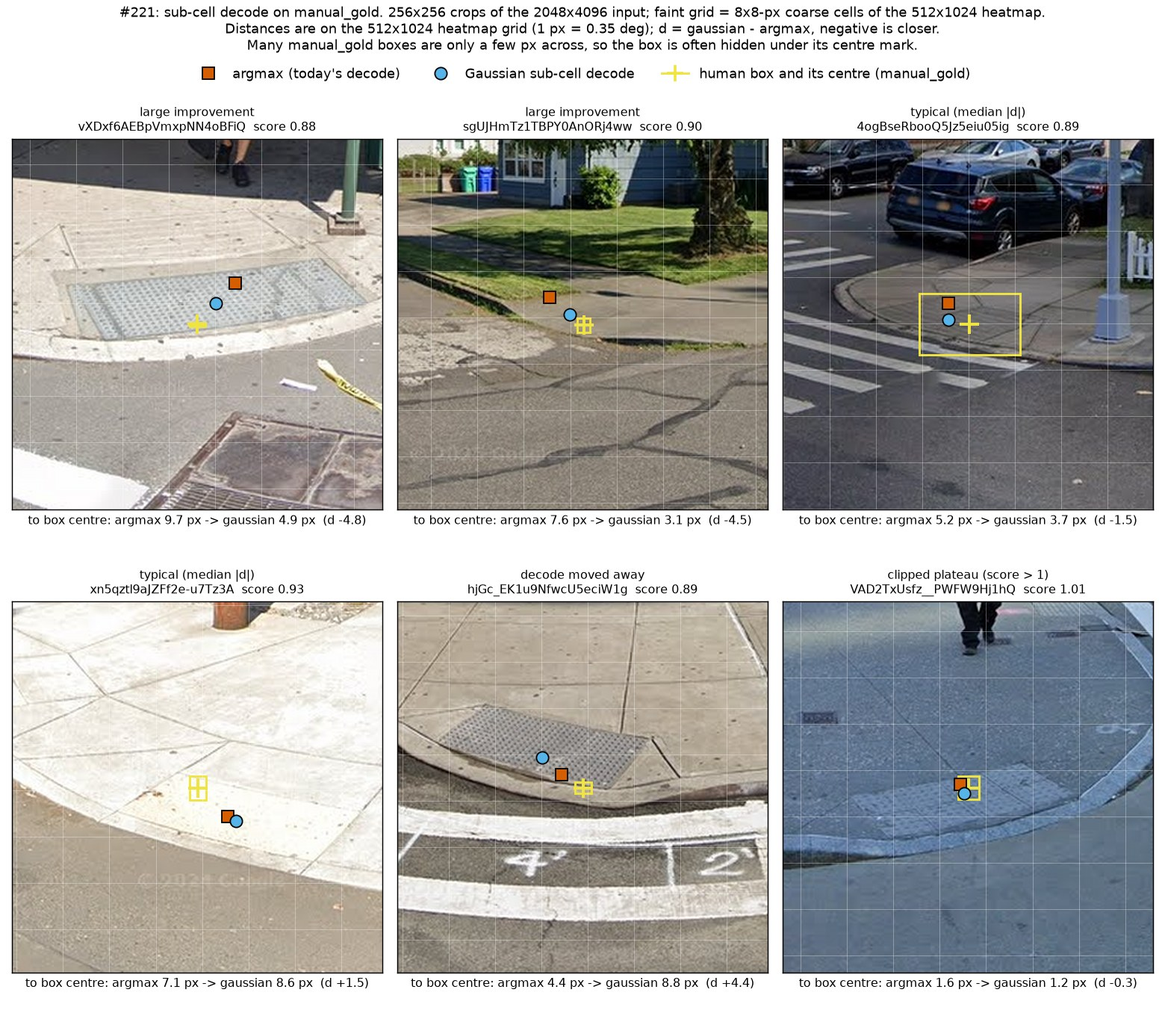
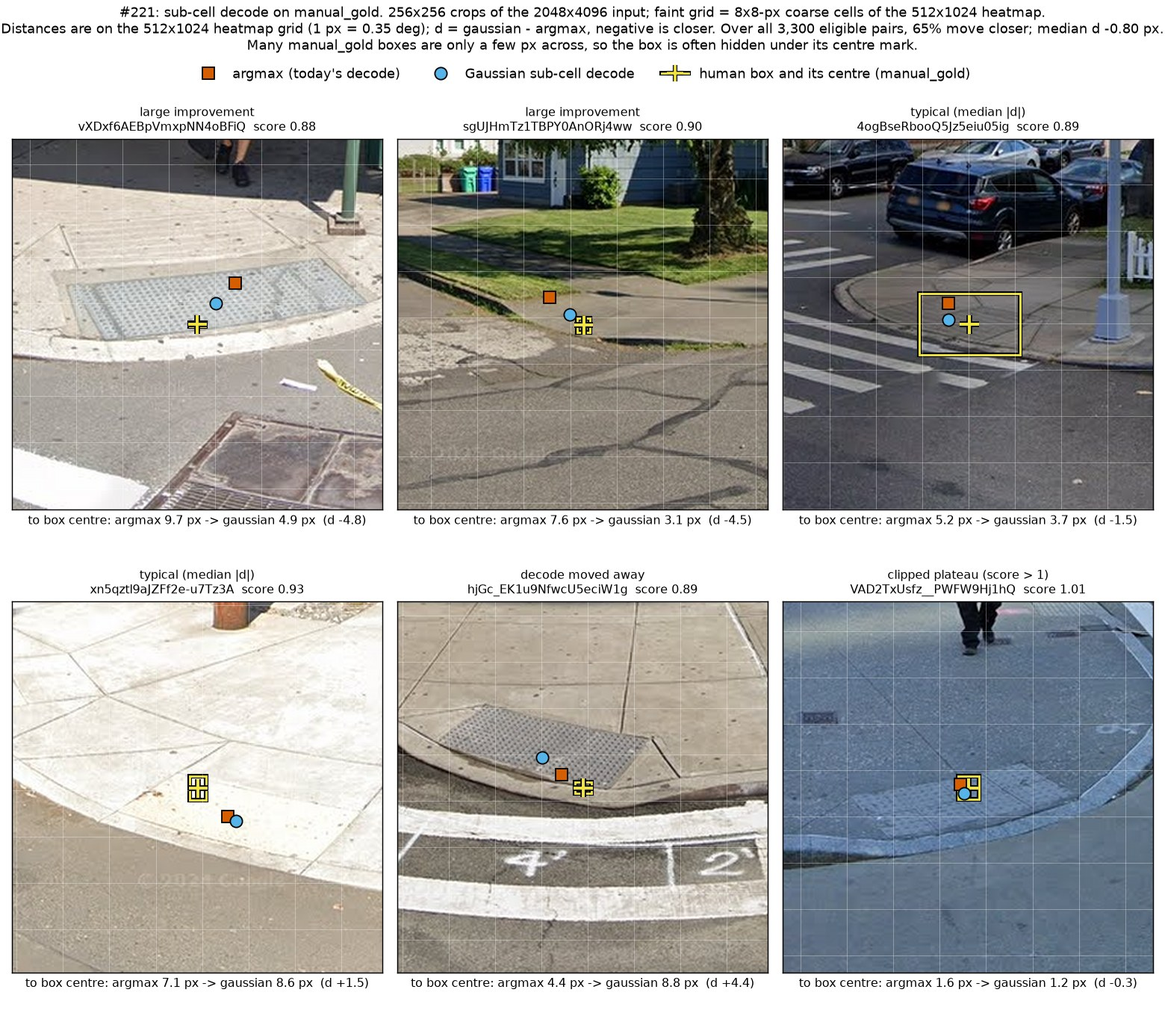
subcell decode (#226 review of b40abc8): figure replication path, doc wording, a11y
S1: the figure script no longer requires the A40 coarse map. With --heatmap-source
model and no --coarse-dir it recovers the coarse map from the model's heatmap; any
coarse map whose sha256 differs from the run's is accepted only if it matches every
stored 3x3 neighbourhood to 2e-4. The section 8 command now passes --detections and
needs neither the extract step nor its cache.
S2: "committed coarse map" corrected; the as-run figure command is documented.
S3: --out-dir is required; the docstring example writes to a scratch dir.
N1-N6: moved-away read softened, calibration and reach clauses, mechanism text,
black outline on GT marks, hatched histograms, descriptive alt text, wording.
Figures regenerated (byte-identical on re-run). Merges origin/main and adds the
docs/README.md row.

diff --git a/scripts/analysis/subcell_decode_221_figures.py b/scripts/analysis/subcell_decode_221_figures.py
@@ -24,20 +24,34 @@ first three categories use pairs whose peak is not clipped (score <= 1), was not
 - ``clipped``: among score > 1 pairs (not climbed, not seam) whose argmax is off the
   8i+3 / 8i+4 grid on either axis, the one whose d is closest to their median d.
 
-The mechanism panel uses the first ``typical`` example.
+The ``large`` and ``away`` picks sit near the decode's reach: their Gaussian offsets are
+0.43-0.50 cell, close to ``MAX_OFFSET = 0.5``, so they show the most the decode can move a
+peak, not a typical move. The mechanism panel uses the first ``typical`` example.
 
 Usage (CPU unless --heatmap-source model)::
 
     python scripts/analysis/subcell_decode_221_figures.py \
-        --panos-root D:/Git/RampNet --coarse-dir <dir with manual_gold/<pid>_coarse.npy> \
-        --heatmap-source model --out-dir docs/figures/subcell_decode_221
+        --panos-root <dir holding benchmark/manual_gold/panos> \
+        --detections analysis_out/subcell_decode_221/detections.json \
+        --heatmap-source model --out-dir /tmp/sc221/figures
 
 ``--panos-root`` holds ``benchmark/manual_gold/panos/<pid>.jpg`` (``fetch_manual_gold.py
---images-only``). The coarse map comes from ``extract --cache-dir`` and is checked against
-the sha256 committed in ``detections.json``. ``--heatmap-source model`` runs the released
-checkpoint on that one pano (GPU if available) so the heatmap panel is the model's own
-output; ``coarse`` draws the bilinear upsample of the coarse map instead and says so in
-the panel title. ``--select-only`` prints the selection and needs neither input.
+--images-only``). ``--out-dir`` is required, so a run cannot overwrite the committed
+figures by accident; pass ``docs/figures/subcell_decode_221`` to do it on purpose.
+
+The mechanism panel needs the pano's 64x128 coarse map. Two sources:
+
+- ``--coarse-dir``: an ``extract --cache-dir``. If the map's sha256 equals the one in
+  ``--detections`` it is the run's own map. If not (another GPU or software stack), every
+  stored 3x3 neighbourhood for that pano must agree with it to ``COARSE_TOL``.
+- no ``--coarse-dir`` with ``--heatmap-source model``: the coarse map is recovered from the
+  model's heatmap (``rampnet.subcell.coarse_from_heatmap``) and checked against the stored
+  neighbourhoods the same way. This needs only the Hub model and the HF imagery.
+
+``--heatmap-source model`` runs the released checkpoint on that one pano (GPU if
+available) so the heatmap panel is the model's own output; ``coarse`` draws the bilinear
+upsample of the coarse map instead and says so in the panel title. ``--select-only`` prints
+the selection and needs no imagery.
 """
 import argparse
 import hashlib
@@ -57,6 +71,10 @@ IN_H, IN_W = 2048, 4096           # model input; 4 input px per heatmap px
 SCALE = IN_W // sd.HM[1]
 CELL_IN = sc.FACTOR * SCALE       # 32 input px per coarse cell
 CROP = 256                        # input px (64 heatmap px, 8 coarse cells)
+# Largest |coarse map - stored 3x3 neighbourhood| accepted when the map is not the run's own
+# (sha256 differs). Cross-machine fp32 noise is about 1e-4 (doc section 3); the stored
+# values are rounded to 6 decimals (5e-7).
+COARSE_TOL = 2e-4
 
 # Okabe-Ito (colour-blind safe); every mark also has its own shape.
 C_ARGMAX = "#D55E00"   # vermillion, square
@@ -155,6 +173,7 @@ def rel_x(x_in, x0, width):
 
 def draw_example(ax, img, p):
     import matplotlib.patches as mpatches
+    import matplotlib.patheffects as pe
     gx, gy = p["gt"]
     cx, cy = gx * IN_W, gy * IN_H
     crop, x0, y0 = crop_wrapped(img, cx, cy, CROP)
@@ -170,9 +189,13 @@ def draw_example(ax, img, p):
     best = min(boxes_for(p["pano"]), key=lambda b: (b[0] - gx) ** 2 + (b[1] - gy) ** 2)
     bw, bh = best[2] * IN_W, best[3] * IN_H
     bx = rel_x(cx, x0, IN_W)
+    # yellow alone is hard to see on pale concrete, so the GT marks get a black outline
     ax.add_patch(mpatches.Rectangle((bx - bw / 2, cy - y0 - bh / 2), bw, bh, fill=False,
-                                    ec=C_GT, lw=1.6))
-    ax.plot(bx, cy - y0, "+", ms=14, mew=2.2, color=C_GT)
+                                    ec=C_GT, lw=1.6,
+                                    path_effects=[pe.Stroke(linewidth=3.4, foreground="black"),
+                                                  pe.Normal()]))
+    ax.plot(bx, cy - y0, "+", ms=14, mew=2.2, color=C_GT,
+            path_effects=[pe.Stroke(linewidth=4.2, foreground="black"), pe.Normal()])
     for (x, y), col, mk in ((p["argmax"], C_ARGMAX, "s"), (p["gaussian"], C_GAUSS, "o")):
         ax.plot(rel_x(x * IN_W, x0, IN_W), y * IN_H - y0, mk, ms=9, mfc=col, mec="black",
                 mew=1.0)
@@ -187,10 +210,11 @@ def draw_example(ax, img, p):
                   f"{p['e_gauss']:.1f} px  (d {p['d']:+.1f})", fontsize=9)
 
 
-def contact_sheet(picks, panos_root, path):
+def contact_sheet(picks, info, panos_root, path):
     import matplotlib
     matplotlib.use("Agg")
     import matplotlib.pyplot as plt
+    import matplotlib.patheffects as pe
     from matplotlib.lines import Line2D
     fig, axes = plt.subplots(2, 3, figsize=(12, 10.4), dpi=130)
     for ax, p in zip(axes.ravel(), picks):
@@ -200,13 +224,17 @@ def contact_sheet(picks, panos_root, path):
                Line2D([], [], ls="", marker="o", ms=9, mfc=C_GAUSS, mec="black",
                       label="Gaussian sub-cell decode"),
                Line2D([], [], ls="-", color=C_GT, lw=1.6, marker="+", ms=12, mew=2,
+                      path_effects=[pe.Stroke(linewidth=3.4, foreground="black"),
+                                    pe.Normal()],
                       label="human box and its centre (manual_gold)")]
     fig.legend(handles=handles, loc="upper center", ncol=3, frameon=False, fontsize=10,
                bbox_to_anchor=(0.5, 0.945))
     fig.suptitle("#221: sub-cell decode on manual_gold. 256x256 crops of the 2048x4096 input; "
                  "faint grid = 8x8-px coarse cells of the 512x1024 heatmap.\n"
                  "Distances are on the 512x1024 heatmap grid (1 px = 0.35 deg); "
-                 "d = gaussian - argmax, negative is closer.\nMany manual_gold boxes are "
+                 "d = gaussian - argmax, negative is closer. Over all "
+                 f"{info['eligible_pairs']:,} eligible pairs, {info['frac_closer']:.0%} move "
+                 f"closer; median d {info['median_d']:+.2f} px.\nMany manual_gold boxes are "
                  "only a few px across, so the box is often hidden under its centre mark.",
                  fontsize=10, y=0.995)
     fig.subplots_adjust(left=0.01, right=0.99, bottom=0.03, top=0.87, wspace=0.04,
@@ -215,12 +243,32 @@ def contact_sheet(picks, panos_root, path):
     plt.close(fig)
 
 
-def load_coarse(coarse_dir, pid, want_sha):
-    c = np.load(os.path.join(coarse_dir, "manual_gold", f"{pid}_coarse.npy"))
-    got = hashlib.sha256(c.astype(np.float32).tobytes()).hexdigest()
-    if got != want_sha:
-        raise SystemExit(f"coarse map for {pid}: sha256 {got} != committed {want_sha}")
-    return c.astype(np.float64)
+def neighbourhood_gap(coarse, rec):
+    """Largest |coarse - stored value| over every stored 3x3 neighbourhood of one pano."""
+    worst = 0.0
+    for r, c, s, i, j, steps, nb in rec["dets"]:
+        got = sc.neighbourhood(coarse, i, j, wrap_x=True).ravel()
+        for g, w in zip(got, nb):
+            if w is not None:
+                worst = max(worst, abs(float(g) - w))
+    return worst
+
+
+def check_coarse(coarse, rec, pid, source):
+    """Accept ``coarse`` for ``pid`` if it is the run's own map (same sha256) or agrees with
+    every stored neighbourhood to COARSE_TOL; exit otherwise. Returns it as float64."""
+    got = hashlib.sha256(np.asarray(coarse, np.float32).tobytes()).hexdigest()
+    if got == rec["coarse_sha256"]:
+        print(f"coarse map for {pid} ({source}): sha256 equals the run's")
+        return np.asarray(coarse, np.float64)
+    gap = neighbourhood_gap(coarse, rec)
+    if gap > COARSE_TOL:
+        raise SystemExit(f"coarse map for {pid} ({source}): sha256 differs from the run's and "
+                         f"it disagrees with the stored neighbourhoods by {gap:.2e} "
+                         f"> {COARSE_TOL:.0e}; it is not the same model output")
+    print(f"coarse map for {pid} ({source}): sha256 differs from the run's (another stack); "
+          f"max |diff| to the stored neighbourhoods {gap:.2e} <= {COARSE_TOL:.0e}")
+    return np.asarray(coarse, np.float64)
 
 
 def model_heatmap(panos_root, pid):
@@ -289,7 +337,7 @@ def mechanism(p, coarse, heat, heat_label, mod8, path):
         cj = int(round((c - 3.5) / 8))           # nearest coarse column to this one
         ks = np.arange(i0, i0 + 8)
         ax3.plot(8 * ks + 3.5, coarse[ks, cj % sd.COARSE[1]], "D", ms=6, color="0.1",
-                 mfc="white", label=f"coarse column {cj} at 8i+3.5")
+                 mfc="white", label=f"nearest coarse column {cj}, at 8i+3.5")
         pos = (r, p["gaussian"][1] * sd.HM[0], p["gt"][1] * sd.HM[0])
         what, unit = "column", "row"
     else:
@@ -299,7 +347,7 @@ def mechanism(p, coarse, heat, heat_label, mod8, path):
         ci = int(round((r - 3.5) / 8))           # nearest coarse row to this one
         ks = np.arange(j0, j0 + 8)
         ax3.plot(8 * ks + 3.5, coarse[ci, ks % sd.COARSE[1]], "D", ms=6, color="0.1",
-                 mfc="white", label=f"coarse row {ci} at 8j+3.5")
+                 mfc="white", label=f"nearest coarse row {ci}, at 8j+3.5")
         pos = (c, p["gaussian"][0] * sd.HM[1], p["gt"][0] * sd.HM[1])
         what, unit = "row", "column"
     ax3.axvline(pos[0], color=C_ARGMAX, lw=2, label="argmax")
@@ -307,19 +355,22 @@ def mechanism(p, coarse, heat, heat_label, mod8, path):
     ax3.axvline(pos[2], color="black", lw=1.2, ls=":", label="box centre")
     ax3.set_xlabel(f"heatmap {unit} (px)")
     ax3.set_ylabel("model output")
-    ax3.set_title(f"Profile down the peak {what}: straight lines\nbetween coarse samples, "
-                  "maximum at a sample", fontsize=10)
+    ax3.set_title(f"Profile down the peak {what}: piecewise linear,\nkinks only at the "
+                  "8i+3.5 sample positions", fontsize=10)
     ax3.set_ylim(-0.03, 1.6 * float(heat[r, c]))     # headroom for the legend
     ax3.legend(fontsize=8, loc="upper left")
     ax3.grid(alpha=0.25)
-    series = (("argmax", C_ARGMAX, "argmax"), ("gaussian", C_GAUSS, "Gaussian decode"),
-              ("gt", "0.55", "box centres (GT)"))
+    # bars left to right in this order; hatching repeats the colour coding
+    series = (("argmax", C_ARGMAX, "", "argmax (left bar)"),
+              ("gaussian", C_GAUSS, "//", "Gaussian decode (middle)"),
+              ("gt", "0.55", "..", "box centres, GT (right)"))
     for k, axis in enumerate(("x", "y")):
         ax = fig.add_subplot(gs[1, k])
         w = 0.27
-        for n, (m, col, lab) in enumerate(series):
+        for n, (m, col, hatch, lab) in enumerate(series):
             v = mod8[axis][m]
-            ax.bar(np.arange(8) + (n - 1) * w, v, w * 0.92, color=col, label=lab)
+            ax.bar(np.arange(8) + (n - 1) * w, v, w * 0.92, color=col, hatch=hatch,
+                   edgecolor="black", linewidth=0.4, label=lab)
         ax.set_xticks(range(8))
         ax.set_xlabel(f"{'column' if axis == 'x' else 'row'} mod 8 (heatmap px)")
         ax.set_ylabel("matched pairs")
@@ -334,10 +385,11 @@ def mechanism(p, coarse, heat, heat_label, mod8, path):
              f"Pano {p['pano']}, peak (row {r}, col {c}),\ncoarse cell ({i}, {j}), "
              f"score {s:.2f}.\n\n"
              "The head ends in a bilinear x8 upsample, so the\n"
-             "heatmap is the coarse map interpolated: each\n"
-             "facet is a plane between four coarse samples,\n"
-             "and an integer argmax can only land on 8i+3 or\n"
-             "8i+4 (the two bars in the argmax histograms).\n\n"
+             "heatmap is the coarse map interpolated: along\n"
+             "any row or column it is linear between coarse\n"
+             "samples (at 8i+3.5), so an integer argmax can\n"
+             "only land on 8i+3 or 8i+4 (the two bars in the\n"
+             "argmax histograms), except on clipped plateaus.\n\n"
              "The Gaussian decode reads the 3x3 coarse\n"
              "neighbourhood instead; its x positions spread\n"
              "like the box centres. The y pile at 5-6 is where\n"
@@ -354,12 +406,14 @@ def main(argv=None):
     ap = argparse.ArgumentParser(description=__doc__.split("\n")[0])
     ap.add_argument("--detections", default=sd.DETS)
     ap.add_argument("--panos-root", help="dir holding benchmark/manual_gold/panos/*.jpg")
-    ap.add_argument("--coarse-dir", help="extract --cache-dir (manual_gold/<pid>_coarse.npy)")
+    ap.add_argument("--coarse-dir",
+                    help="extract --cache-dir (manual_gold/<pid>_coarse.npy); optional with "
+                         "--heatmap-source model, which recovers the map from the heatmap")
     ap.add_argument("--heatmap-source", choices=("model", "coarse"), default="coarse",
                     help="model: run the released checkpoint on the mechanism pano; "
                          "coarse: bilinear upsample of the coarse map (CPU)")
-    ap.add_argument("--out-dir", default=os.path.join(sd.REPO, "docs", "figures",
-                                                      "subcell_decode_221"))
+    ap.add_argument("--out-dir", help="required unless --select-only; the committed figures "
+                                      "are docs/figures/subcell_decode_221")
     ap.add_argument("--select-only", action="store_true")
     a = ap.parse_args(argv)
     import json
@@ -367,6 +421,10 @@ def main(argv=None):
         D = json.load(f)
     pairs = pair_table(D)
     picks, info = select(pairs)
+    ds = np.array([p["d"] for p in pairs if p["det"][2] <= 1 and p["det"][5] == 0
+                   and p["det"][4] not in (0, sd.COARSE[1] - 1)])
+    info["median_d"] = float(np.median(ds))
+    info["frac_closer"] = float(np.mean(ds < 0))
     print(f"{len(pairs)} manual_gold pairs; {info}")
     for p in picks:
         r, c, s, i, j, steps, _ = p["det"]
@@ -374,15 +432,24 @@ def main(argv=None):
               f"argmax {p['e_argmax']:.2f} -> gaussian {p['e_gauss']:.2f} px (d {p['d']:+.2f})")
     if a.select_only:
         return 0
-    if not (a.panos_root and a.coarse_dir):
-        raise SystemExit("--panos-root and --coarse-dir are required unless --select-only")
+    if not (a.panos_root and a.out_dir):
+        raise SystemExit("--panos-root and --out-dir are required unless --select-only")
+    if not a.coarse_dir and a.heatmap_source != "model":
+        raise SystemExit("--coarse-dir is required unless --heatmap-source model")
     os.makedirs(a.out_dir, exist_ok=True)
-    contact_sheet(picks, a.panos_root, os.path.join(a.out_dir, "examples_contact_sheet.jpg"))
+    contact_sheet(picks, info, a.panos_root,
+                  os.path.join(a.out_dir, "examples_contact_sheet.jpg"))
     mp = next(p for p in picks if p["category"] == "typical")
-    coarse = load_coarse(a.coarse_dir, mp["pano"],
-                         D["panos"]["manual_gold"][mp["pano"]]["coarse_sha256"])
-    if a.heatmap_source == "model":
-        heat = model_heatmap(a.panos_root, mp["pano"])
+    rec = D["panos"]["manual_gold"][mp["pano"]]
+    heat = model_heatmap(a.panos_root, mp["pano"]) if a.heatmap_source == "model" else None
+    if a.coarse_dir:
+        coarse = check_coarse(np.load(os.path.join(a.coarse_dir, "manual_gold",
+                                                   f"{mp['pano']}_coarse.npy")),
+                              rec, mp["pano"], a.coarse_dir)
+    else:
+        coarse = check_coarse(sc.coarse_from_heatmap(heat), rec, mp["pano"],
+                              "recovered from the model heatmap")
+    if heat is not None:
         diff = float(np.abs(heat - sc.upsample(coarse)).max())
         print(f"mechanism pano {mp['pano']}: max |model heatmap - upsample(coarse)| = "
               f"{diff:.2e}")

diff --git a/docs/subcell_decode_221.md b/docs/subcell_decode_221.md
@@ -36,26 +36,36 @@ Six manual_gold ramps, chosen by a fixed rule from the 3,517 matched pairs: the 
 improvements, the two closest to the median |d|, the one where the decode moved furthest away
 from the box centre (all five from peaks with score <= 1, not climbed, not at the seam), and
 one clipped plateau (score > 1, argmax off the 8i+3 / 8i+4 grid, d nearest that group's
-median). d is the change in distance to the box centre, Gaussian minus argmax.
+median). At most one example is taken per pano; that rule did not change any pick here. d is
+the change in distance to the box centre, Gaussian minus argmax.
 
-![Six manual_gold crops with argmax, Gaussian decode and human box](figures/subcell_decode_221/examples_contact_sheet.jpg)
+To calibrate the six: of the 3,300 eligible pairs, 65.2% move closer and 34.8% move further
+away, with median d -0.80 px. The rule takes two best cases and one worst, so the sheet leans
+favourable by construction, and one of the two "typical" panels (d +1.49) is a regression.
+The "large" and "moved away" panels show the decode at its reach: their Gaussian offsets are
+0.43-0.50 cell, close to the 0.5-cell clamp (`MAX_OFFSET`), so |d| cannot get much larger.
+
+![Contact sheet of six manual_gold crops. In four of the six, the Gaussian decode (circle) sits closer to the human box centre (plus) than the argmax (square); in the "typical" regression and the "moved away" crop it sits further. Every argmax sits 2 input px from the centre of its coarse cell on each axis, except the clipped plateau.](figures/subcell_decode_221/examples_contact_sheet.jpg)
 
 - Many manual_gold "boxes" are only a few pixels across, so they read as a point label, and
   the box is often hidden under its centre mark.
 - In the "moved away" example (`hjGc_EK1u9NfwcU5eciW1g`), the decode moves the peak up and
   left, further onto the tactile pad. The human mark sits lower, on the kerb line at the
   pad's front edge, and the argmax happened to fall between them (4.4 px to 8.8 px). The
-  model's peak and the labeller disagree about *which point* of the ramp to mark. That is the
-  concept offset in section 5, not a decode error.
+  decode follows the coarse map faithfully here (the neighbours up and to the left are higher,
+  giving an offset of 0.48 / 0.43 cell), so this is consistent with the concept offset in
+  section 5, where the model and the labeller mark different points of the ramp. One image
+  cannot show that this is the cause.
 
 The mechanism panel uses the first "typical" example. Its heatmap is the released model's
 output on that pano, re-run on a desktop RTX 3070. It agrees with the bilinear upsample of
-the committed coarse map to 2.0e-5, which is cross-GPU fp32 noise. The two histograms are
-the manual_gold columns of the section 4.3 table.
+the run's coarse map (the makelab2 A40 map; only its sha256 is committed, in
+`detections.json`) to 2.0e-5, which is cross-GPU fp32 noise. The two histograms are the
+manual_gold rows of the section 4.3 table.
 
-![Heatmap crop vs coarse-map crop, 1-D profile, and mod-8 histograms](figures/subcell_decode_221/mechanism_panel.png)
+![Mechanism panel. Top: the 512x1024 heatmap around one peak looks smooth, but the 64x128 coarse map it was upsampled from shows the same 8x8 cells; a profile down the peak column is piecewise linear with kinks at the coarse sample positions. Bottom: argmax positions mod 8 fall almost only on 3 and 4 on both axes, while Gaussian-decoded positions and human box centres spread across all eight.](figures/subcell_decode_221/mechanism_panel.png)
 
-Both figures come from `scripts/analysis/subcell_decode_221_figures.py` (command in
+Both figures come from `scripts/analysis/subcell_decode_221_figures.py` (commands in
 section 8). The crops are small documentation extracts of the manual_gold panos in the HF
 `projectsidewalk/rampnet-dataset` test split.
 
@@ -427,11 +437,14 @@ python scripts/analysis/subcell_decode_221.py extract --panos-root . \
 python scripts/analysis/subcell_decode_221.py report --detections /tmp/sc221/detections.json \
     --out /tmp/sc221/results.json
 
-# the Examples figures (selection is CPU-only and prints with --select-only; the coarse map
-# of the mechanism pano is checked against the sha256 in detections.json; --heatmap-source
-# model runs the checkpoint on that one pano, `coarse` draws the upsample instead, CPU)
+# the Examples figures. Selection is CPU-only and prints with --select-only. --heatmap-source
+# model runs the checkpoint on the mechanism pano and recovers its coarse map from that
+# heatmap, checked against the 3x3 neighbourhoods stored in --detections (to 2e-4), so this
+# needs neither the extract step nor its cache. The selection reads the committed detections;
+# pass /tmp/sc221/detections.json instead to draw from your own.
 python scripts/analysis/subcell_decode_221_figures.py --panos-root . \
-    --coarse-dir /tmp/sc221/coarse --heatmap-source model --out-dir /tmp/sc221/figures
+    --detections analysis_out/subcell_decode_221/detections.json \
+    --heatmap-source model --out-dir /tmp/sc221/figures
 
 # compare with the committed report: every number, ignoring only the top-level "inputs"
 python scripts/analysis/subcell_decode_221.py compare \
@@ -450,6 +463,24 @@ the size of the differences. A change in any paired difference beyond its last d
 beyond noise, is a real discrepancy. `report` alone, run on the committed `detections.json` with
 default arguments, reproduces the committed `results.json` and `results.md` byte for byte.
 
+**Figures, as run** (2026-10-01, desktop RTX 3070, torch 2.6.0+cu126). The coarse map was a
+local copy of `/homes/gws/jonf/subcell221_cache/manual_gold/4ogBseRbooQ5Jz5eiu05ig_coarse.npy`
+from makelab2, whose sha256 equals the one in `detections.json`; the panos were the desktop's
+manual_gold copy, which matches `imagery_manifest.json`:
+
+```bash
+python scripts/analysis/subcell_decode_221_figures.py --panos-root D:/Git/RampNet \
+    --detections analysis_out/subcell_decode_221/detections.json \
+    --coarse-dir <local copy of subcell221_cache> --heatmap-source model \
+    --out-dir docs/figures/subcell_decode_221
+```
+
+Re-running that command reproduces both committed figures byte for byte. The clean-clone command
+above draws the same contact sheet byte for byte (it uses no coarse map). Its mechanism panel
+differs in bytes, because its coarse map is recovered from a heatmap computed on another GPU,
+which differs from the A40 map by about 2e-5. `--out-dir` is required, so the figure script
+cannot overwrite the committed figures unless told to.
+
[1 lines of base64/hex data omitted]
 holds every peak >= 0.30 with its 3x3 coarse neighbourhood (6 decimals), so `report` needs neither
 GPU nor imagery. `tests/test_subcell_decode_221.py` re-derives the point estimates from it in CI.
@@ -465,6 +496,7 @@ noise of about 1e-4 is expected (section 3).
 | `extract`, 1,499 panos (manual_gold 1,000 + 4 x ~125) | makelab2, 1x A40 (shared for part of the run: #217's segment-vistas at 18:53:48Z and #218's perspective shards from 19:00:50Z both ran on it before this run ended at ~19:18Z) | 2,579 s (43 min) | 0.72 | 0 |
 | `report` | desktop CPU | ~1 min | 0 | 0 |
 | smoke test (15 panos) | desktop RTX 3070 | 32 s | ~0.01 | 0 |
+| Examples figures (one forward pass, plus plotting) | desktop RTX 3070 (not in the ledger) | ~22 s | ~0.01 | 0 |
 
 The extract row is in `analysis_out/usage_log.jsonl`
 (`run_id` `subcell-decode-221:extract:2026-09-30T18:35:42Z`, `paid: false`). Of the 2,579 s, the

diff --git a/docs/README.md b/docs/README.md
@@ -82,6 +82,7 @@ Supporting directories (not indexed row by row):
 | [`two_scale_197.md`](two_scale_197.md) | #197, #25 | negative result | final | Two-scale inference (near field from 1×, far field from 2× upsampled), pre-stated primary: HURTS, ΔF1 −0.018 over the eight US splits; a threshold alone reaches the same recall for fewer false positives. | `scripts/analysis/two_scale_197.py` (check) |
 | [`laurens_paired_151.md`](laurens_paired_151.md) | #151 | result | final | Laurens paired on the corners both rigs saw: RampNet's own rig effect survives pairing (ΔF1 +0.112), but that RampNet is more rig-sensitive than the YOLO pano arms is not established. | `scripts/analysis/laurens_paired_151.py` (check) |
 | [`da3_calibration_101.md`](da3_calibration_101.md) | #101, #112 | result | final | Depth Anything 3 calibrated against GSV depth: DA3 reads range ~10.6% longer than Google's (median 1.106); pooled the difference is a scale, on Google's 2025–26 rig it is not. | `scripts/analysis/da3_calibration_101.py` (check) |
+| [`subcell_decode_221.md`](subcell_decode_221.md) | #221 | result | final | The released model puts 99.0% of peaks on hi-res pixel 3 or 4 mod 8; a Gaussian decode from each peak's 3x3 coarse neighbourhood moves detections toward the human box centres on all five splits measured (CI excludes zero on four), by -0.727 px [-0.783, -0.673] on `manual_gold`, and no detection metric moves. | `scripts/analysis/subcell_decode_221.py` (no check) re-derives `results.json` from the committed detections, and its `compare` subcommand diffs a re-run against it; `scripts/analysis/subcell_decode_221_figures.py` (no check) draws the Examples figures |
 
 ## Multi-view & auto-labeler
 
@@ -135,7 +136,6 @@ into the right group above; `tests/test_docs_index.py` fails until it does.
 | file | PR | what it is |
 |---|---|---|
 | `docs/sidewalk_width_217.md` | #225 | Sidewalk width arm 1 on the Seoul set (#217). |
-| `docs/subcell_decode_221.md` | #226 | Sub-cell decode of heatmap peaks, measured against box centres (#221). |
 | `docs/perspective_photos_218.md` | #227 | RampNet on perspective photos (#218): Richmond flat Mapillary test and Seoul prep. |
 | `docs/fair_metadata_150.md` | #190 | Croissant 1.1 + GeoCroissant 1.0 + RAI metadata for the dataset and benchmark (#150). |
 | `docs/pu_training_86.md` | #182 | Plan: PU training of the tag head (#86 item 5), proposed. |
